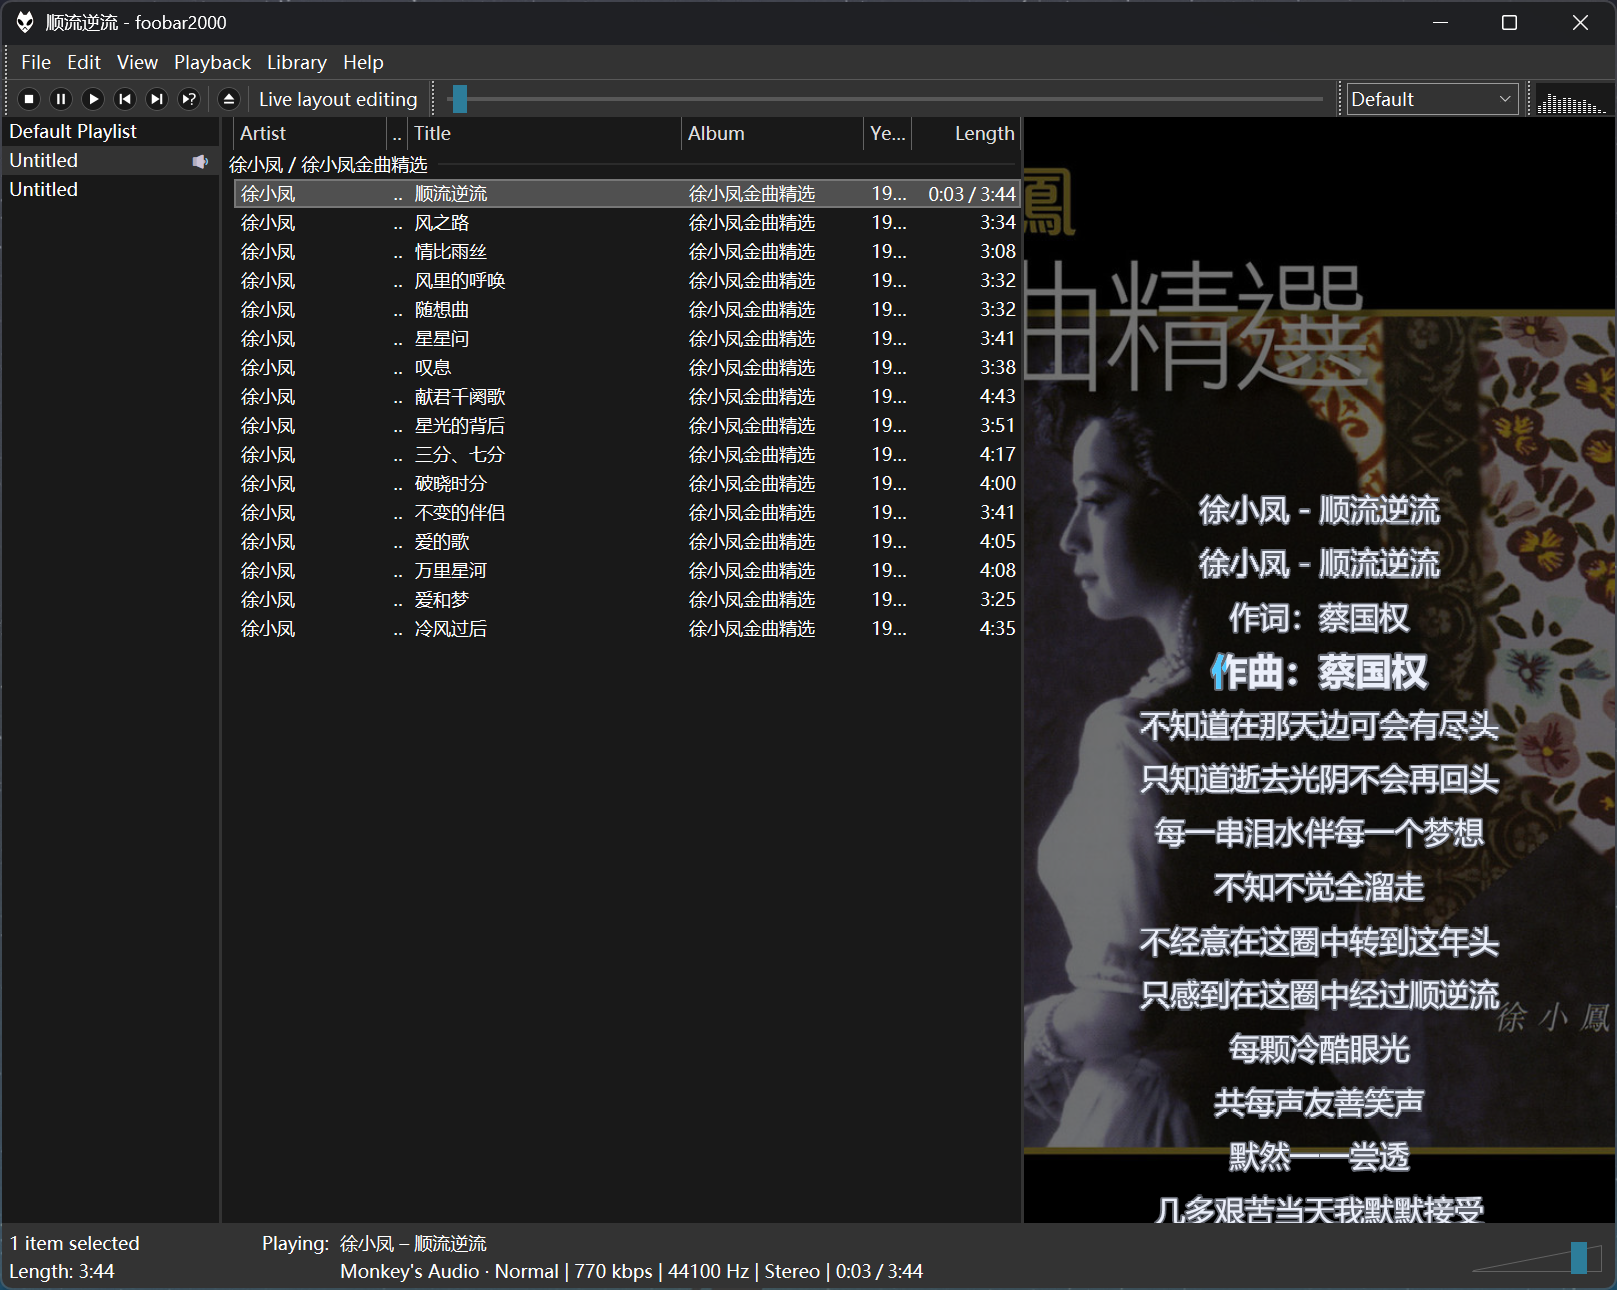
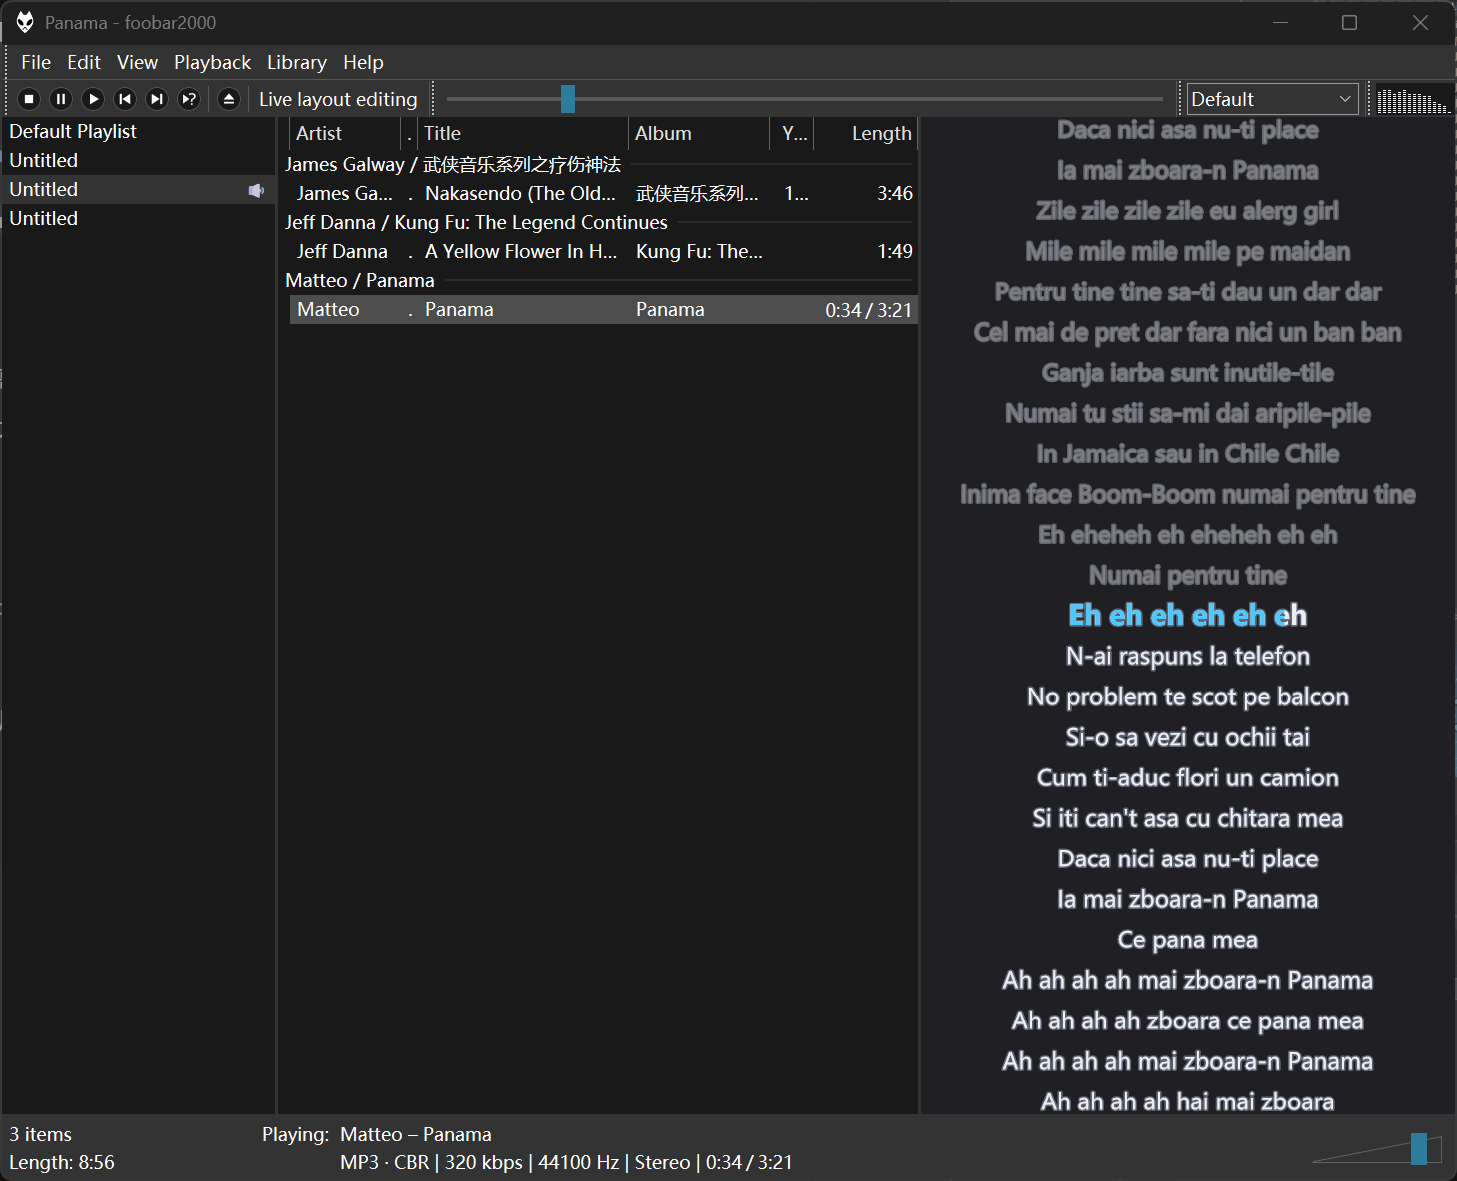
Add multi-panel and layout-edit screenshots; refresh the panel shot.

diff --git a/README_en.md b/README_en.md
@@ -30,6 +30,10 @@ This repository hosts **release binaries** and open community JS scripts. The co
 
 ![Embedded panel](screenshot/win/panel-lrc.png)
 
+![Several panels](screenshot/win/multi-panel.png)
+
+![Layout editing uses foobar’s menu](screenshot/win/living-edit.png)
+
 ![Columns UI transparent background](screenshot/win/transparent-background.png)
 
 ![Desktop lyrics](screenshot/win/desktop-lrc.png)
